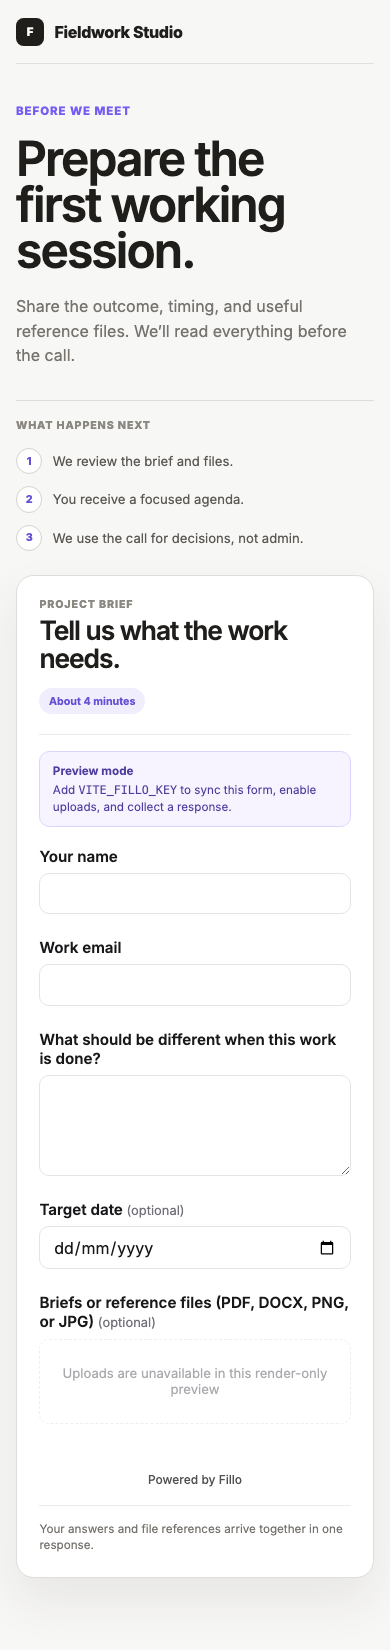
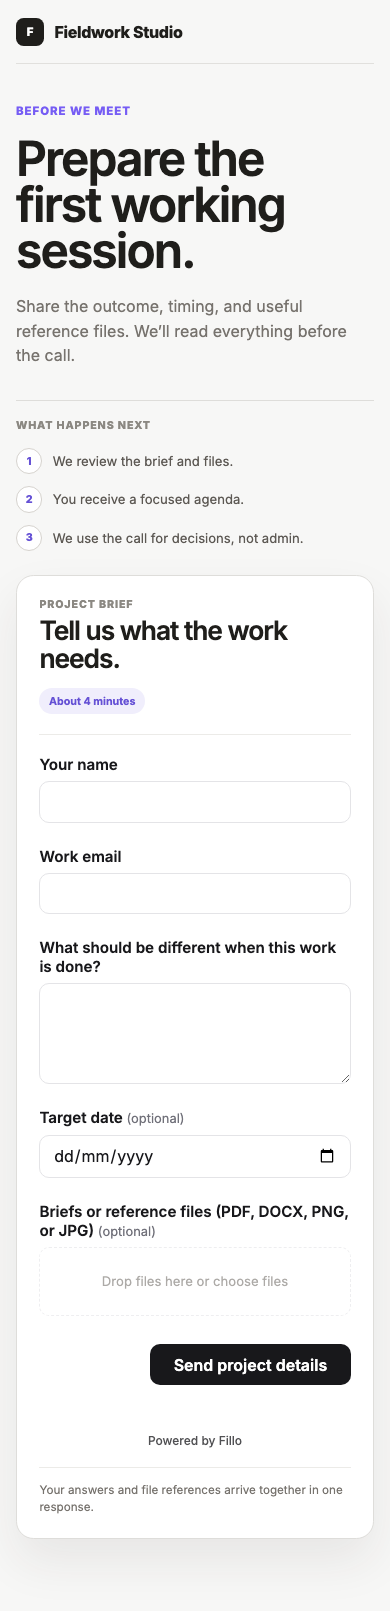
Show finished form state in screenshots

diff --git a/src/styles.css b/src/styles.css
@@ -218,7 +218,7 @@ h1 {
   line-height: 1.45;
 }
 
-footer {
+.app-shell > footer {
   border-top: 1px solid #e1e0dd;
   padding-top: 1rem;
   color: #8a8781;
@@ -240,7 +240,7 @@ footer {
 
 @media (max-width: 36rem) {
   .site-header > p,
-  footer {
+  .app-shell > footer {
     display: none;
   }
 
